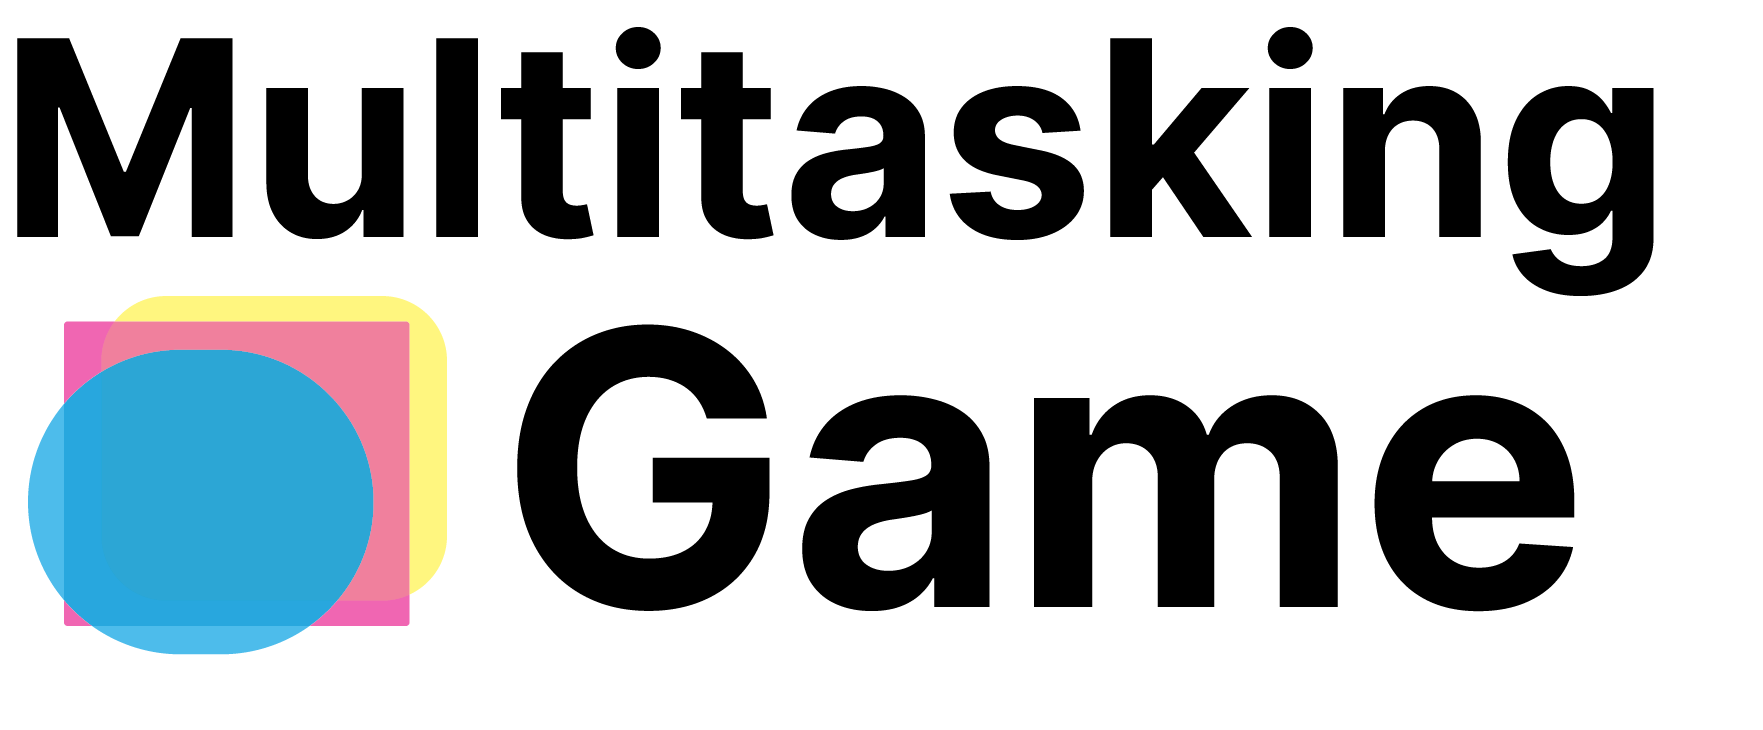
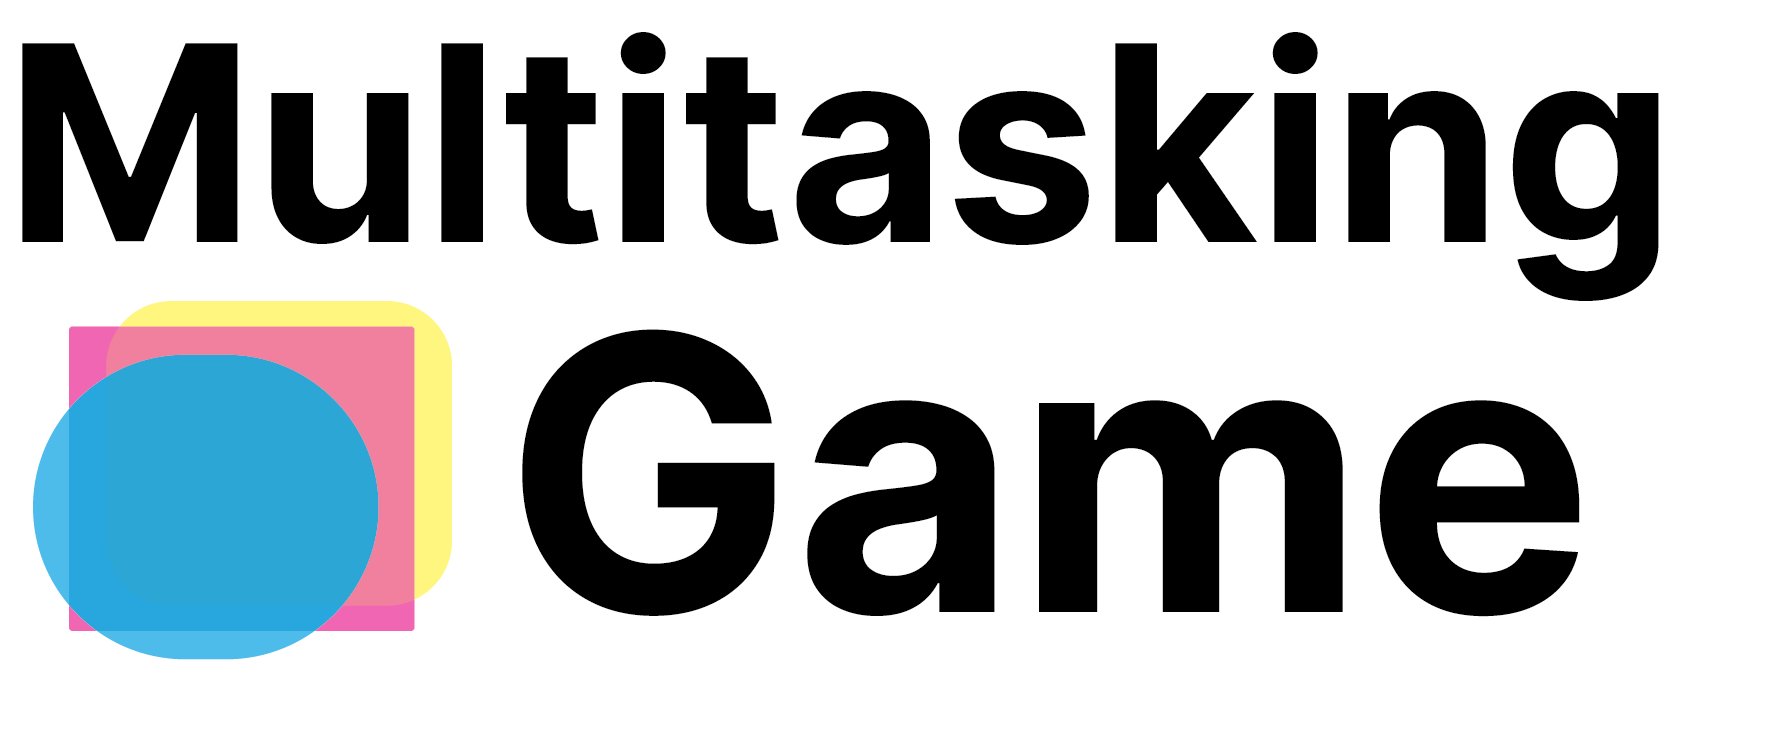
Added Background to Menu

diff --git a/src/main/java/game/view/javafx/JavaFxView.java b/src/main/java/game/view/javafx/JavaFxView.java
@@ -23,6 +23,11 @@ import javafx.scene.control.Label;
 import javafx.scene.image.Image;
 import javafx.scene.image.ImageView;
 import javafx.scene.input.KeyCode;
+import javafx.scene.layout.Background;
+import javafx.scene.layout.BackgroundImage;
+import javafx.scene.layout.BackgroundPosition;
+import javafx.scene.layout.BackgroundRepeat;
+import javafx.scene.layout.BackgroundSize;
 import javafx.scene.layout.GridPane;
 import javafx.scene.layout.HBox;
 import javafx.scene.layout.VBox;
@@ -41,7 +46,7 @@ public final class JavaFxView extends Application implements View {
     private static final double ASPECT_RATIO = ASPECT_WIDTH / (double) ASPECT_HEIGHT;
 
     private static final int START_WINDOW_WIDTH = 800;
-    private static final int START_WINDOW_HEIGHT = 450;
+    private static final int START_WINDOW_HEIGHT = 480;
     private static final List<Color> BACKGROUND_COLORS = List.of(Color.AQUAMARINE, Color.DARKSEAGREEN, Color.RED);
     private final List<Canvas> minigameCanvases = new ArrayList<>();
 
@@ -78,6 +83,11 @@ public final class JavaFxView extends Application implements View {
         root.setBackground(null);
         final Scene menuScene = new Scene(root, stage.getWidth(), stage.getHeight());
         menuScene.setFill(Color.WHITE);
+        final BackgroundImage backgroundImage = new BackgroundImage(
+                new Image(this.getClass().getResourceAsStream("/Pattern.png")), BackgroundRepeat.REPEAT,
+                BackgroundRepeat.REPEAT, BackgroundPosition.DEFAULT, BackgroundSize.DEFAULT);
+        final Background background = new Background(backgroundImage);
+        root.setBackground(background);
         stage.setScene(menuScene);
 
     }
